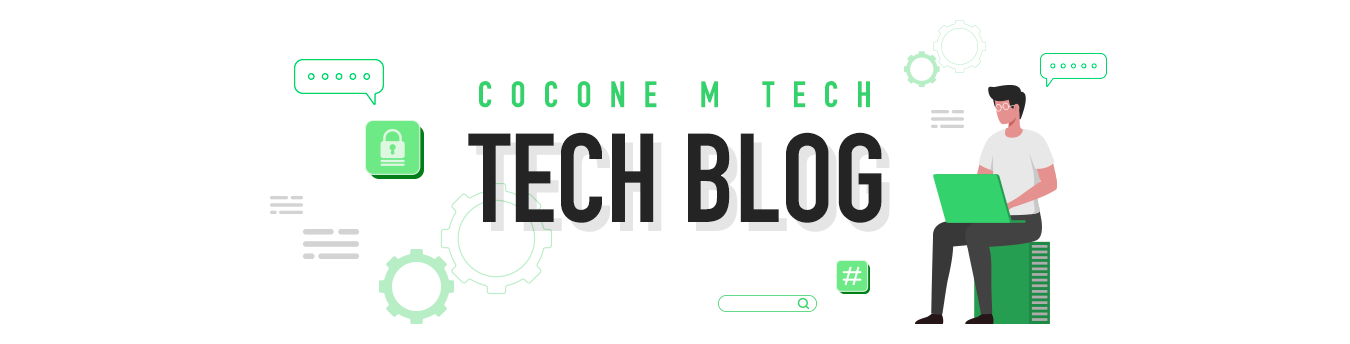
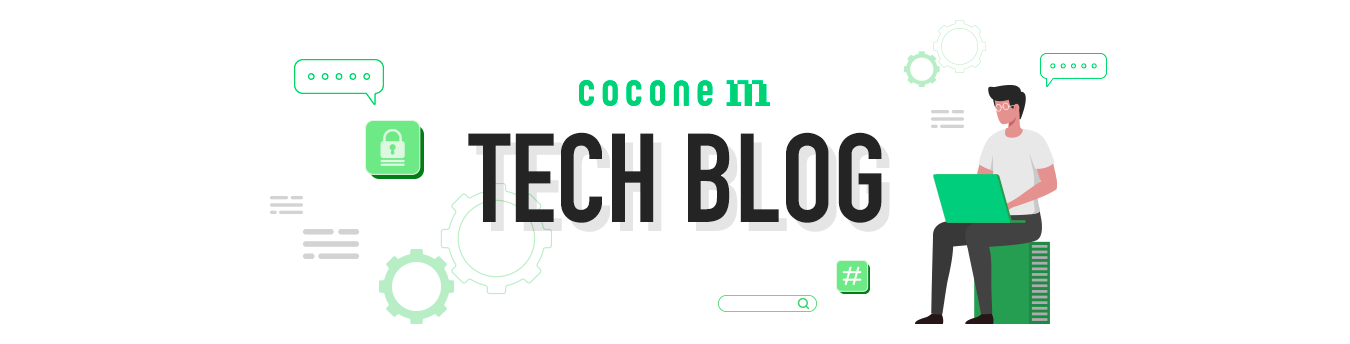
[fix] 로고 및 배너 이미지, 메뉴명 변경

Changed region(s): [[0.3422, 0.2326, 0.6533, 0.3198], [0.6844, 0.4942, 0.7467, 0.6686]]

diff --git a/_includes/head.html b/_includes/head.html
@@ -3,9 +3,10 @@
   <meta http-equiv="X-UA-Compatible" content="IE=edge">
   <meta name="viewport" content="width=device-width, initial-scale=1">
   {%- seo -%}
+  <link rel="shortcut icon" type="image/x-icon" href="/assets/banners/favicon.ico?">
   <!-- <link rel="shortcut icon" href="{{ site.favicon }}"> -->
-  <link href="{{ site.asset_url }}/favicon.ico" rel="shortcut icon"/>
-  <!-- <link rel="icon" type="image/png" href="/assets/banners/favicon.ico"> -->
+  <!-- <link href="{{ site.asset_url }}/favicon.ico" rel="shortcut icon"/> -->
+  <!-- <link rel="icon" type="image/png" href="/assets/banners/favicon.png"> -->
   <link rel="stylesheet" href="https://cdnjs.cloudflare.com/ajax/libs/font-awesome/4.7.0/css/font-awesome.min.css">
   <link rel="stylesheet" href="https://cdn.jsdelivr.net/npm/typeface-noto-sans@0.0.72/index.min.css">
   <link rel="stylesheet" href="{{ "/assets/css/main.css" | relative_url }}">

diff --git a/_sass/yat/_layout.scss b/_sass/yat/_layout.scss
@@ -627,7 +627,7 @@ html {
 
   .page-banner-img {
     position: absolute;
-    top: 50px;
+    top: 100px;
     width: 100%;
     height: 100%;
     overflow: hidden;
@@ -739,6 +739,7 @@ html {
  */
 .framework {
   @extend %flex;
+  margin-top: 120px;
 
   .main {
     @extend %flex-1;
